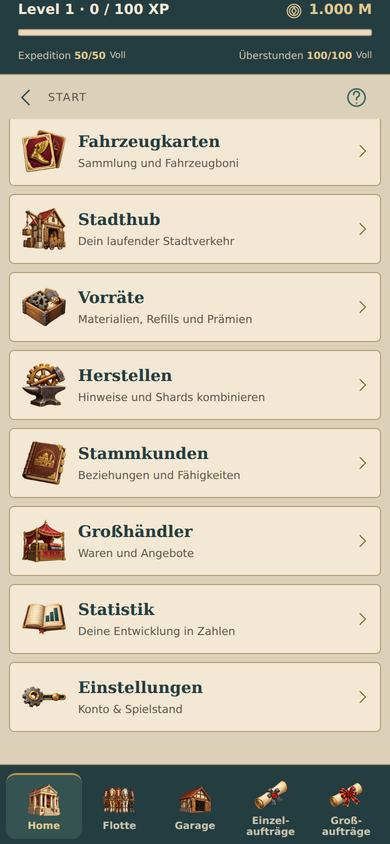
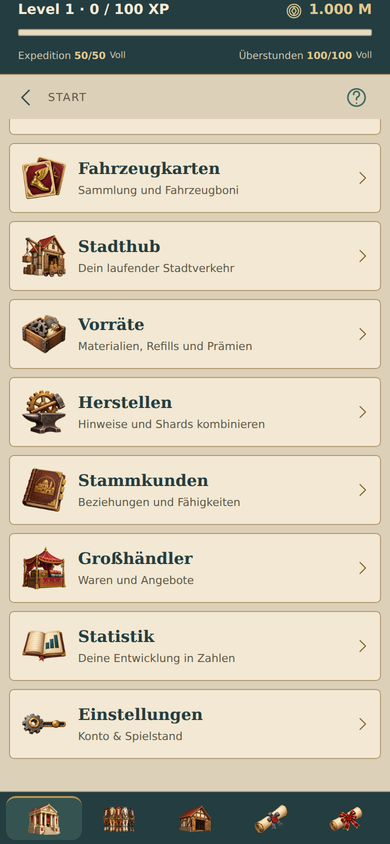
Make bottom navigation compact and image-only [publish-preview]

diff --git a/src/App.tsx b/src/App.tsx
@@ -167,12 +167,12 @@ function Game(){
  {journeyOpen?<View style={{flex:1}}>{body()}</View>:<ScrollView style={{backgroundColor:C.bg}} automaticallyAdjustKeyboardInsets ref={scroll} contentContainerStyle={[v.content,screen==='expeditions'&&v.expeditionContent]} keyboardShouldPersistTaps="handled" refreshControl={<RefreshControl refreshing={busy} onRefresh={()=>run()} tintColor={C.accent}/>}>
  {body()}
  </ScrollView>}
- <View style={v.nav}>{TABS.map(([key,label])=><Pressable key={key} accessibilityRole="tab" accessibilityLabel={translate(label)} accessibilityState={{selected:screen===key}} aria-selected={screen===key} onPress={()=>{setScreen(key);setTrail([]);setProjectId(null);scroll.current?.scrollTo({y:0,animated:false});}} style={[v.navItem,screen===key&&v.navActive]}><MenuArt id={key} size={36}/><Text numberOfLines={2} style={[v.navLabel,screen===key&&{color:C.brassLight}]}>{key==='orders'?'Einzel-\naufträge':key==='projects'?'Groß-\naufträge':label}</Text></Pressable>)}</View>
+ <View style={v.nav}>{TABS.map(([key,label])=><Pressable key={key} accessibilityRole="tab" accessibilityLabel={translate(label)} accessibilityState={{selected:screen===key}} aria-selected={screen===key} onPress={()=>{setScreen(key);setTrail([]);setProjectId(null);scroll.current?.scrollTo({y:0,animated:false});}} style={[v.navItem,screen===key&&v.navActive]}><MenuArt id={key} size={36}/></Pressable>)}</View>
  {message?<View pointerEvents="none" accessibilityLiveRegion="polite" style={[v.notice,{bottom:76+insets.bottom}]}><Txt style={{color:C.accent,fontSize:12}}>{message}</Txt></View>:null}
  {jobId!==null&&data&&g.expedition.jobs.some((job:any)=>job.id===jobId)&&<OrderVehiclePicker key={`job-${jobId}`} data={data} choices={data.jobChoices?.[jobId]||[]} summary={(()=>{const job=g.expedition.jobs.find((entry:any)=>entry.id===jobId);return `${itemName(job.kind==='character'?'character':'material')} · ${c.regionNames[job.region]} · ${job.tier||1}`;})()} busy={busy} clock={clock} modalBlocked={!!sheet||levelNotices.length>0} onClose={()=>setJobId(null)} onStart={async(truck:string)=>{const job=g.expedition.jobs.find((entry:any)=>entry.id===jobId);if(!job)return false;const next=await act('mission',{region:job.region,kind:'endless',place:job.id,truck});const started=next?.state.expedition.missions.some((m:any)=>m.jobId===job.id&&m.status==='active');if(started){setJobId(null);setOrdersTab('running');go('runningOrders');}return !!started;}}/>}
  <Modal visible={!!sheet&&!levelNotices.length} transparent animationType="none" onRequestClose={()=>setSheet(null)}><View style={[v.overlay,sheet?.centered&&v.centeredOverlay]}><SafeAreaView edges={sheet?.centered?[]:['bottom']} style={[v.sheet,sheet?.centered&&v.centeredSheet]}><Row style={{flexWrap:'nowrap'}}><Txt style={[v.cardTitle,{flex:1,minWidth:0,flexShrink:1}]}>{sheet?.title}</Txt><Btn icon="close" iconOnly secondary style={{flexShrink:0,marginTop:0}} onPress={()=>setSheet(null)}>Schließen</Btn></Row>{sheet?.rewardSummary?<ClaimRewards summary={sheet.rewardSummary} rarities={sheet.rarities}/>:<>{sheet?.itemId&&<View style={{alignItems:'center',marginBottom:14}}><ItemArt id={sheet.itemId} rarity={sheet.itemRarity} size={136}/></View>}{!sheet?.itemId&&sheet?.foundCardId&&<VehicleArt card={c.cards.find((card:any)=>card.id===sheet.foundCardId)} style={{width:136,alignSelf:'center',marginBottom:14}}/>}{sheet?.body&&<Txt muted>{sheet.body}</Txt>}<ScrollView keyboardShouldPersistTaps="handled">{!sheet?.items?.length&&sheet?.emptyText!==''&&<Txt muted style={{paddingVertical:20}}>Keine passende Auswahl verfügbar.</Txt>}{sheet?.items?.map((item:any,i:number)=><Pressable key={i} accessibilityRole="button" style={[v.sheetItem,item.primary&&{backgroundColor:C.accent,borderRadius:10,paddingHorizontal:14,marginTop:12}]} onPress={()=>{setSheet(null);item.onPress();}}><Txt style={{fontWeight:'700',...(item.primary?{color:C.onInk}:{})}}>{item.title}</Txt>{item.detail&&<Txt muted style={{fontSize:12}}>{item.detail}</Txt>}</Pressable>)}</ScrollView></>}</SafeAreaView></View></Modal>
  <LevelUpNotice levels={levelNotices} onClose={()=>setLevelNotices([])}/>
  </SafeAreaView>;
 }
-const v=StyleSheet.create({languageOption:{flexDirection:'row',gap:8,flex:1,minHeight:44,borderWidth:1,borderColor:C.line,borderRadius:10,alignItems:'center',justifyContent:'center',marginTop:12},placePortrait:{alignItems:'center',marginBottom:14},pointButton:{minWidth:44,minHeight:44,borderRadius:10,borderWidth:1,borderColor:C.line,alignItems:'center',justifyContent:'center'},offerCard:{backgroundColor:C.panel,borderColor:C.line,borderLeftWidth:3,marginBottom:18},offerMeta:{paddingBottom:10,borderBottomWidth:1,borderBottomColor:C.line,marginBottom:13},offerFacts:{backgroundColor:C.raised,padding:11,borderRadius:8,marginTop:13,marginBottom:6},root:{flex:1,backgroundColor:C.ink},header:{paddingHorizontal:18,paddingTop:0,paddingBottom:6,borderBottomWidth:1,borderColor:C.line,backgroundColor:C.ink},headerButton:{minWidth:44,minHeight:44,alignItems:'center',justifyContent:'center'},pageTitle:{backgroundColor:C.bg,flexDirection:'row',justifyContent:'space-between',alignItems:'center',paddingLeft:4,paddingRight:12,minHeight:44},helpButton:{minWidth:44,minHeight:42,alignItems:'center',justifyContent:'center'},content:{paddingHorizontal:9,paddingTop:6,paddingBottom:32},expeditionContent:{paddingHorizontal:18},tileValue:{fontSize:30,fontWeight:'700',lineHeight:40,marginVertical:8},cardTitle:{fontSize:16,fontWeight:'700'},destinations:{gap:8,marginTop:8},menuRow:{flexDirection:'row',alignItems:'center',gap:10,minHeight:70,paddingVertical:10,paddingHorizontal:10,backgroundColor:C.panel,borderWidth:1,borderColor:C.line,borderRadius:5},menuCopy:{flex:1,minWidth:0},menuTitle:{color:C.text,fontFamily:displayFont,fontSize:16,fontWeight:'700',lineHeight:22},menuDetail:{color:C.muted,fontSize:11,lineHeight:17,marginTop:2},hubBadge:{minWidth:42,flexShrink:0,textAlign:'right',fontSize:12,lineHeight:18,fontWeight:'700',color:C.muted},nav:{flexDirection:'row',paddingHorizontal:6,paddingTop:8,paddingBottom:5,borderTopWidth:1,borderColor:C.line,backgroundColor:C.ink},navItem:{flex:1,borderTopWidth:2,borderTopColor:'transparent',minHeight:66,alignItems:'center',justifyContent:'center',borderRadius:10,paddingHorizontal:2},navActive:{backgroundColor:C.inkRaised,borderTopColor:C.brass},navIcon:{fontSize:23,color:C.mutedOnInk,lineHeight:27},navLabel:{textAlign:'center',fontSize:10,color:C.mutedOnInk,fontWeight:'600',marginTop:3},notice:{position:'absolute',left:18,right:18,zIndex:10,paddingVertical:10,paddingHorizontal:14,backgroundColor:C.greenWash,borderRadius:10,borderWidth:1,borderColor:C.accent},error:{paddingVertical:10,paddingHorizontal:18,backgroundColor:C.redWash},input:{color:C.text,borderWidth:1,borderColor:C.line,borderRadius:10,padding:13,marginTop:13,minHeight:48},overlay:{flex:1,backgroundColor:C.overlay,justifyContent:'flex-end'},sheet:{maxHeight:'80%',padding:20,backgroundColor:C.panel,borderTopLeftRadius:22,borderTopRightRadius:22},centeredOverlay:{justifyContent:'center',alignItems:'center',padding:20},centeredSheet:{width:'100%',maxWidth:440,borderRadius:22,borderWidth:1,borderColor:C.line},sheetItem:{paddingVertical:17,borderBottomColor:C.line,borderBottomWidth:1}});
+const v=StyleSheet.create({languageOption:{flexDirection:'row',gap:8,flex:1,minHeight:44,borderWidth:1,borderColor:C.line,borderRadius:10,alignItems:'center',justifyContent:'center',marginTop:12},placePortrait:{alignItems:'center',marginBottom:14},pointButton:{minWidth:44,minHeight:44,borderRadius:10,borderWidth:1,borderColor:C.line,alignItems:'center',justifyContent:'center'},offerCard:{backgroundColor:C.panel,borderColor:C.line,borderLeftWidth:3,marginBottom:18},offerMeta:{paddingBottom:10,borderBottomWidth:1,borderBottomColor:C.line,marginBottom:13},offerFacts:{backgroundColor:C.raised,padding:11,borderRadius:8,marginTop:13,marginBottom:6},root:{flex:1,backgroundColor:C.ink},header:{paddingHorizontal:18,paddingTop:0,paddingBottom:6,borderBottomWidth:1,borderColor:C.line,backgroundColor:C.ink},headerButton:{minWidth:44,minHeight:44,alignItems:'center',justifyContent:'center'},pageTitle:{backgroundColor:C.bg,flexDirection:'row',justifyContent:'space-between',alignItems:'center',paddingLeft:4,paddingRight:12,minHeight:44},helpButton:{minWidth:44,minHeight:42,alignItems:'center',justifyContent:'center'},content:{paddingHorizontal:9,paddingTop:6,paddingBottom:32},expeditionContent:{paddingHorizontal:18},tileValue:{fontSize:30,fontWeight:'700',lineHeight:40,marginVertical:8},cardTitle:{fontSize:16,fontWeight:'700'},destinations:{gap:8,marginTop:8},menuRow:{flexDirection:'row',alignItems:'center',gap:10,minHeight:70,paddingVertical:10,paddingHorizontal:10,backgroundColor:C.panel,borderWidth:1,borderColor:C.line,borderRadius:5},menuCopy:{flex:1,minWidth:0},menuTitle:{color:C.text,fontFamily:displayFont,fontSize:16,fontWeight:'700',lineHeight:22},menuDetail:{color:C.muted,fontSize:11,lineHeight:17,marginTop:2},hubBadge:{minWidth:42,flexShrink:0,textAlign:'right',fontSize:12,lineHeight:18,fontWeight:'700',color:C.muted},nav:{flexDirection:'row',paddingHorizontal:6,paddingTop:4,paddingBottom:4,borderTopWidth:1,borderColor:C.line,backgroundColor:C.ink},navItem:{flex:1,borderTopWidth:2,borderTopColor:'transparent',minHeight:44,alignItems:'center',justifyContent:'center',borderRadius:10,paddingHorizontal:2},navActive:{backgroundColor:C.inkRaised,borderTopColor:C.brass},notice:{position:'absolute',left:18,right:18,zIndex:10,paddingVertical:10,paddingHorizontal:14,backgroundColor:C.greenWash,borderRadius:10,borderWidth:1,borderColor:C.accent},error:{paddingVertical:10,paddingHorizontal:18,backgroundColor:C.redWash},input:{color:C.text,borderWidth:1,borderColor:C.line,borderRadius:10,padding:13,marginTop:13,minHeight:48},overlay:{flex:1,backgroundColor:C.overlay,justifyContent:'flex-end'},sheet:{maxHeight:'80%',padding:20,backgroundColor:C.panel,borderTopLeftRadius:22,borderTopRightRadius:22},centeredOverlay:{justifyContent:'center',alignItems:'center',padding:20},centeredSheet:{width:'100%',maxWidth:440,borderRadius:22,borderWidth:1,borderColor:C.line},sheetItem:{paddingVertical:17,borderBottomColor:C.line,borderBottomWidth:1}});
 

diff --git a/docs/ui/menu-art.md b/docs/ui/menu-art.md
@@ -2,7 +2,7 @@
 
 Die 14 Startziele verwenden die freigegebenen farbigen Miniaturen statt Umrisszeichen. Firma/Home teilen den Verwaltungssitz, Einzel- und Großaufträge ihre jeweilige Auftragsrolle. Die untere Leiste ergänzt das Fünfer-Pferdegespann und die Scheunengarage. Alle Motive sind transparent, ohne Itemrahmen oder Seltenheitsfarbe.
 
-Startzeilen: 48 dp, Firmenkarte: 60 dp, untere Navigation: 36 dp. Proportionale Darstellung und einheitlicher transparenter Rand. Die fünf unteren Schaltflächen bleiben gleich breit und mindestens 66 dp hoch. Aktive Auswahl weiterhin durch Petrolfläche und goldene Oberkante; Bilder behalten ihre Farben. Die gesprochenen Beschriftungen stammen von den Schaltflächen, dekorative Bilder werden nicht doppelt vorgelesen. Auswahlstatus auch explizit über `aria-selected` für die Webdarstellung.
+Startzeilen: 48 dp, Firmenkarte: 60 dp, untere Navigation: 36 dp. Proportionale Darstellung und einheitlicher transparenter Rand. Die fünf unteren Schaltflächen zeigen nur die Bilder, bleiben gleich breit und 44 dp hoch. Mit oberem/unterem Abstand und Trennlinie ist die Leiste 53 dp statt zuvor 80 dp hoch; der geräteabhängige Sicherheitsabstand bleibt erhalten. Die Namen bleiben für die Sprachausgabe verfügbar. Aktive Auswahl weiterhin durch Petrolfläche und goldene Oberkante; Bilder behalten ihre Farben. Die gesprochenen Beschriftungen stammen von den Schaltflächen, dekorative Bilder werden nicht doppelt vorgelesen. Auswahlstatus auch explizit über `aria-selected` für die Webdarstellung.
 
 ## Validierung
 
